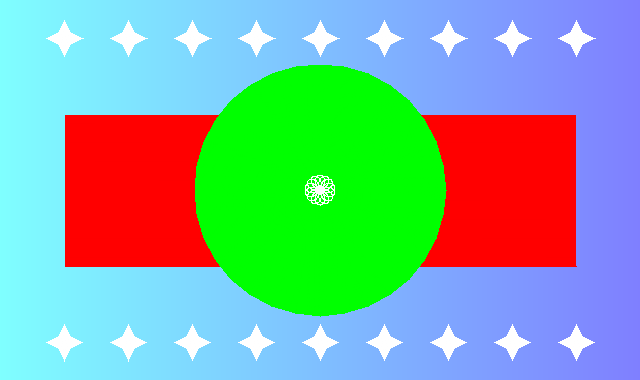
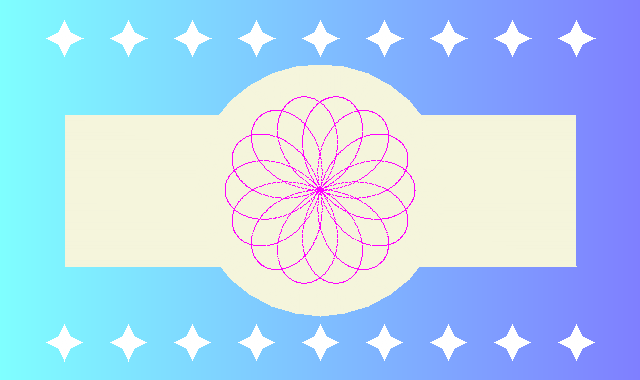
art-4, art-5

diff --git a/src/canvas.cpp b/src/canvas.cpp
@@ -9,6 +9,7 @@ using namespace agl;
 Canvas::Canvas(int w, int h) : _canvas(w, h)
 {
    _currentType = UNDEFINED;
+   _blendMode = "set";
    _fillShapes = true;
 }
 
@@ -57,7 +58,13 @@ void Canvas::background(unsigned char r, unsigned char g, unsigned char b)
    }
 }
 
-void Canvas::toggleShapeFill() {
+void Canvas::changeBlendMode(const string& newBlendMode) 
+{
+   _blendMode = newBlendMode;
+}
+
+void Canvas::toggleShapeFill() 
+{
    _fillShapes = !_fillShapes;
 }
 
@@ -68,8 +75,8 @@ void Canvas::drawPoint()
       exit(1);
    } 
    for (auto it = _vertices.begin(); it < _vertices.end(); it += 1) { 
-       Vertex vertex = *it;
-      _canvas.set(vertex.x, vertex.y, vertex.color);
+      Vertex vertex = *it;
+      colorPixel(vertex.x, vertex.y, vertex.color);
    }
 }
 
@@ -119,7 +126,7 @@ void Canvas::drawLineLow(const Vertex& beginVertex, const Vertex& endVertex)
       unsigned char r = endVertex.color.r * (float) x / bx + beginVertex.color.r * (1 - (float) x / bx);
       unsigned char g = endVertex.color.g * (float) x / bx + beginVertex.color.g * (1 - (float) x / bx);
       unsigned char b = endVertex.color.b * (float) x / bx + beginVertex.color.b * (1 - (float) x / bx);
-      colorPixel(x, y, {r, g, b}, "set");
+      colorPixel(x, y, {r, g, b});
       if (F > 0) {
          y += dy;
          F += 2 * (H - W);
@@ -144,7 +151,7 @@ void Canvas::drawLineHigh(const Vertex& beginVertex, const Vertex& endVertex)
       unsigned char r = endVertex.color.r * (float) y / by + beginVertex.color.r * (1 - (float) y / by);
       unsigned char g = endVertex.color.g * (float) y / by + beginVertex.color.g * (1 - (float) y / by);
       unsigned char b = endVertex.color.b * (float) y / by + beginVertex.color.b * (1 - (float) y / by);
-      colorPixel(x, y, {r, g, b}, "set");
+      colorPixel(x, y, {r, g, b});
       if (F > 0) {
          x += dx;
          F += 2 * (W - H);
@@ -194,7 +201,7 @@ void Canvas::drawTriangle()
                   unsigned char r = vertexA.color.r * alpha + vertexB.color.r * beta + vertexC.color.r * gamma;
                   unsigned char g = vertexA.color.g * alpha + vertexB.color.g * beta + vertexC.color.g * gamma;
                   unsigned char b = vertexA.color.b * alpha + vertexB.color.b * beta + vertexC.color.b * gamma;
-                  colorPixel(x, y, {r, g, b}, "set");
+                  colorPixel(x, y, {r, g, b});
                }
             }
          }
@@ -204,7 +211,7 @@ void Canvas::drawTriangle()
 
 void Canvas::rectangle(int xLeft, int xRight, int yBottom, int yTop)
 {
-   std::cout << "Drawing rectangle from " << xLeft << " " << yBottom << " to " << xRight << " " << yTop << std::endl;
+   cout << "Drawing rectangle from " << xLeft << " " << yBottom << " to " << xRight << " " << yTop << endl;
    this->begin(TRIANGLES);
    this->vertex(xLeft, yBottom);
    this->vertex(xLeft, yTop);
@@ -218,27 +225,33 @@ void Canvas::rectangle(int xLeft, int xRight, int yBottom, int yTop)
 
 void Canvas::circle(int centerX, int centerY, int radius)
 {
-   std::cout << "Drawing circle with center " << centerX << " " << centerY << " and radius " << radius << std::endl;
-   this->begin(TRIANGLES);
-   int NUM_TRIANGLES = 32;
-   float theta = 0;
-   float dTheta = (float) (2 * M_PI) / NUM_TRIANGLES;
-   int firstX, firstY, secondX, secondY;
-   for (int i = 0; i < NUM_TRIANGLES; i++) {
-      firstX = centerX + (radius * cos(theta));
-      firstY = centerY + (radius * sin(theta));
-      theta += dTheta;
-      secondX = centerX + (radius * cos(theta));
-      secondY = centerY + (radius * sin(theta));
+   cout << "Drawing circle with center " << centerX << " " << centerY << " and radius " << radius << endl;
+   if (radius == 0) {
+      this->begin(POINTS);
       this->vertex(centerX, centerY);
-      this->vertex(firstX, firstY);
-      this->vertex(secondX, secondY);
+      this->end();
+   } else {
+      this->begin(TRIANGLES);
+      int NUM_TRIANGLES = 32;
+      float theta = 0;
+      float dTheta = (float) (2 * M_PI) / NUM_TRIANGLES;
+      int firstX, firstY, secondX, secondY;
+      for (int i = 0; i < NUM_TRIANGLES; i++) {
+         firstX = centerX + (radius * cos(theta));
+         firstY = centerY + (radius * sin(theta));
+         theta += dTheta;
+         secondX = centerX + (radius * cos(theta));
+         secondY = centerY + (radius * sin(theta));
+         this->vertex(centerX, centerY);
+         this->vertex(firstX, firstY);
+         this->vertex(secondX, secondY);
+      }
+      this->end();
    }
-   this->end();
 }
 
 void Canvas::star(int centerX, int centerY, int radius) {
-   std::cout << "Drawing star with center " << centerX << " " << centerY << " and radius " << radius << std::endl;
+   cout << "Drawing star with center " << centerX << " " << centerY << " and radius " << radius << endl;
    this->begin(TRIANGLES);
    this->vertex(centerX - (radius / 2), centerY);
    this->vertex(centerX + (radius / 2), centerY);
@@ -259,30 +272,29 @@ void Canvas::star(int centerX, int centerY, int radius) {
 }
 
 void Canvas::rose(int centerX, int centerY, int a, int n, int d) {
-   std::cout << "Drawing rose with center " << centerX << " " << centerY << ", a = " << a << " and k = " << n << " / " << d << std::endl;
+   cout << "Drawing rose with center " << centerX << " " << centerY << ", a = " << a << " and k = " << n << " / " << d << endl;
    this->begin(POINTS);
    float r;
    float k = (float) n / d;
    int x, y;
    for (float theta = 0; theta < 2 * M_PI * 10; theta += 0.017) {
       r = a * cos(k * theta);
-      // why
-      x = r * cos(theta) + centerY;
-      y = r * sin(theta) + centerX;
+      x = r * cos(theta) + centerX;
+      y = r * sin(theta) + centerY;
       this->vertex(x, y);
    }
    this->end();
 }
 
-void Canvas::colorPixel(int x, int y, const Pixel& color, const string& blendMode) {
+void Canvas::colorPixel(int x, int y, const Pixel& color) {
    if (0 <= x && x < _canvas.width() && 0 <= y && y < _canvas.height()) {
       Pixel origPx = _canvas.get(y, x);
       Pixel newPx;
-      if (blendMode == "set") {
+      if (_blendMode == "set") {
          newPx = color;
-      } else if (blendMode == "add") {
+      } else if (_blendMode == "add") {
          newPx = {(unsigned char) (color.r + origPx.r), (unsigned char) (color.g + origPx.g), (unsigned char) (color.b + origPx.b)};
-      } else if (blendMode == "difference") {
+      } else if (_blendMode == "difference") {
          newPx = {(unsigned char) abs(color.r - origPx.r), (unsigned char) abs(color.g - origPx.g), (unsigned char) abs(color.b - origPx.b)};
       }   
       _canvas.set(y, x, newPx);

diff --git a/src/draw_art.cpp b/src/draw_art.cpp
@@ -1,6 +1,7 @@
 #include <iostream>
 #include "canvas.h"
 #include <cmath>
+#include <algorithm>
 
 using namespace std;
 using namespace agl;
@@ -15,10 +16,10 @@ int main(int argc, char** argv)
    drawer.background(255, 255, 255);
    drawer.gradient({0, 0, 255}, {0, 255, 255}, "horizontal", 0.5);
    
-   drawer.color(255, 0, 0);
+   drawer.color(245, 245, 220);
    drawer.rectangle(0.1 * WIDTH, 0.9 * WIDTH, 0.3 * HEIGHT, 0.7 * HEIGHT);
 
-   drawer.color(0, 255, 0);
+   drawer.color(245, 245, 220);
    drawer.circle(WIDTH / 2, HEIGHT / 2, HEIGHT / 3);
 
    drawer.color(255, 255, 255);
@@ -27,16 +28,16 @@ int main(int argc, char** argv)
       drawer.star(0.1 * i * WIDTH, 0.9 * HEIGHT, 0.05 * HEIGHT);
    }
 
+   drawer.color(255, 0, 255);
    drawer.rose(WIDTH / 2, HEIGHT / 2, HEIGHT / 4, 7, 4);
 
    drawer.save("../images/art/art-1.png");
 
 
    //--------------------------- ART 2 ---------------------------
-   drawer.background(0.3 * 255, 0.59 * 255, 0.11 * 255);
+   drawer.background(255, 165, 0);
    
-   drawer.color(200, 200, 150);
-
+   drawer.color(128, 0, 128);
    drawer.circle(WIDTH / 4, HEIGHT / 2, HEIGHT / 3);
    drawer.circle(WIDTH / 2, HEIGHT / 2, HEIGHT / 3);
    drawer.circle(3 * WIDTH / 4, HEIGHT / 2, HEIGHT / 3);
@@ -47,7 +48,6 @@ int main(int argc, char** argv)
       for (int d = 1; d <= 9; d++) {
          x = ((float) n / 8) * WIDTH;
          y = ((float) d / 10) * HEIGHT;
-         std::cout << x << " " << y << std::endl;
          drawer.rose(x, y, 15, n, d);
       }
    }
@@ -90,5 +90,54 @@ int main(int argc, char** argv)
    }
    
    drawer.save("../images/art/art-3.png");
+
+
+
+   //--------------------------- ART 4 ---------------------------
+   drawer.background(0, 0, 0);
+
+   int xLeft, yBottom, xRight, yTop, centerX, centerY, radius;
+   for (int i = 1; i <= 100; i++) {
+      drawer.color(rand() % 255, rand() % 255, rand() % 255);
+      if (i % 2 == 0) {
+         xLeft = rand() % WIDTH;
+         yBottom = rand() % HEIGHT;
+         xRight = xLeft + rand() % (WIDTH - xLeft);
+         yTop = yBottom + rand() % (HEIGHT - yBottom);
+         drawer.rectangle(xLeft, yBottom, xRight, yTop);
+      } else {
+         centerX = rand() % WIDTH;
+         centerY = rand() % HEIGHT;
+         radius = rand() % min({centerX, WIDTH - centerX, centerY, HEIGHT - centerY});
+         drawer.circle(centerX, centerY, radius);
+      }
+   }
+   
+   drawer.save("../images/art/art-4.png");
+
+
+
+   //--------------------------- ART 5 ---------------------------
+   drawer.background(0, 0, 0);
+
+   int a, n, d;
+   for (int i = 1; i <= 100; i++) {
+      drawer.color(rand() % 255, rand() % 255, rand() % 255);
+      if (i % 2 == 0) {
+         centerX = rand() % WIDTH;
+         centerY = rand() % HEIGHT;
+         radius = rand() % min({centerX, WIDTH - centerX, centerY, HEIGHT - centerY});
+         drawer.star(centerX, centerY, radius);
+      } else {
+         centerX = rand() % WIDTH;
+         centerY = rand() % HEIGHT;
+         a = rand() % min(WIDTH / 2, HEIGHT / 2);
+         n = rand() % 8;
+         d = rand() % 10;
+         drawer.rose(centerX, centerY, a, n, d);
+      }
+   }
+   
+   drawer.save("../images/art/art-5.png");
 }
 

diff --git a/src/canvas.h b/src/canvas.h
@@ -54,6 +54,8 @@ namespace agl
       // Fill the canvas with the given background color
       void background(unsigned char r, unsigned char g, unsigned char b);
 
+      void changeBlendMode(const std::string& newBlendMode);
+
       void toggleShapeFill();
 
       void drawPoint();
@@ -76,7 +78,7 @@ namespace agl
 
       int implicitEqn(int x, int y, const Vertex& a, const Vertex& b);
 
-      void colorPixel(int i, int j, const Pixel& color, const std::string& blendMode);
+      void colorPixel(int i, int j, const Pixel& color);
 
       void gradient(const Pixel& a, const Pixel& b, const std::string& orientation, float alpha);
 
@@ -85,6 +87,7 @@ namespace agl
       PrimitiveType _currentType;
       Pixel _currentColor;
       std::vector<Vertex> _vertices;
+      std::string _blendMode;
       bool _fillShapes;
    };
 }
